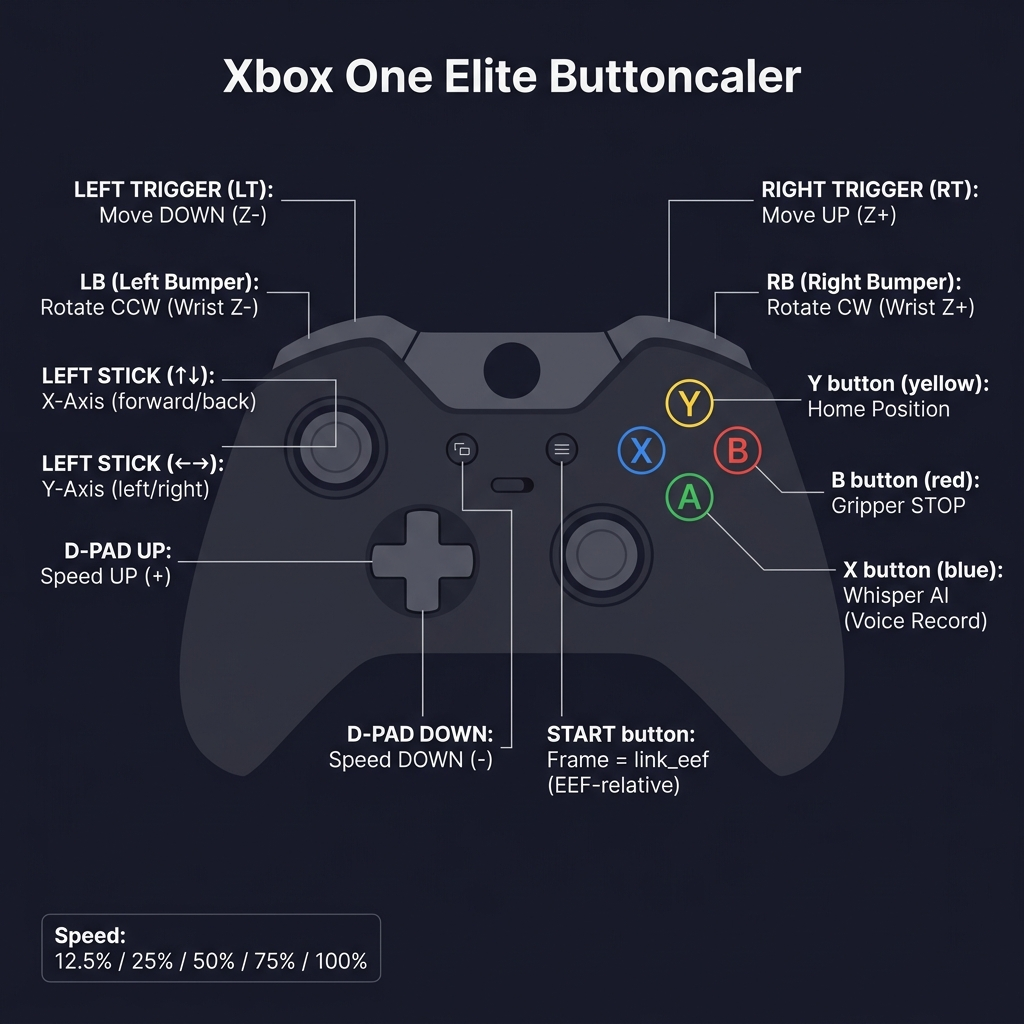
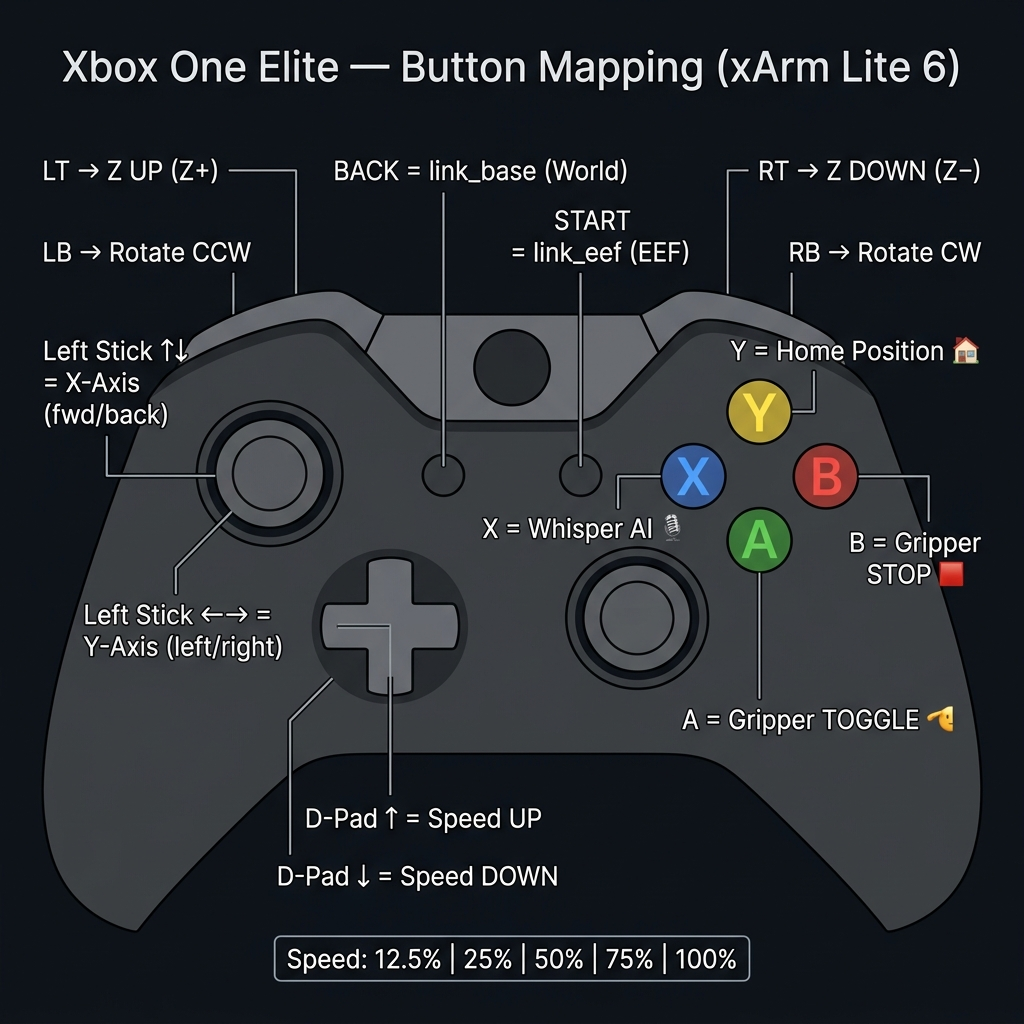
fix: correct gamepad button mapping (LT/RT Z-axis, remove image temporarily)
- LT = Z UP (Z+), RT = Z DOWN (Z-) [was inverted in docs]
  Formula: zAchse=(LT-RT)*-scale -> LT pressed=negative*-scale=positive Z
- Remove gamepad_layout.png from README sections (image WIP)
- Update gamepad_layout.png with corrected arrow labels (v3)

diff --git a/readme-de.md b/readme-de.md
@@ -388,16 +388,12 @@ Das Rumble-Signal wird aufgehoben, sobald der Arm wieder sicher ist.
 
 #### 7.3.1 Vollständige Controller-Belegung
 
-<p align="center">
-  <img src="_imgs/gamepad_layout.png" width="85%" alt="Xbox One Elite — Button-Belegung für xArm Lite 6">
-</p>
-
 | Eingabe | Funktion | ROS-Aktion | Technisches Detail |
 |---------|---------|-----------|-------------------|
 | **Left Stick ↑↓** | X-Achse (vor/zurück) | `TwistStamped.linear.x` | `axes[1] × speed_scale` |
 | **Left Stick ←→** | Y-Achse (links/rechts) | `TwistStamped.linear.y` | `axes[0] × speed_scale` |
-| **LT (Left Trigger)** | Z abwärts | `TwistStamped.linear.z` | `clamp(LT - RT, -1, 1) × -speed_scale` |
-| **RT (Right Trigger)** | Z aufwärts | `TwistStamped.linear.z` | `clamp(LT - RT, -1, 1) × -speed_scale` |
+| **LT (Left Trigger)** | Z **aufwärts** (Z+) | `TwistStamped.linear.z` | `clamp(LT−RT, -1,1) × −speed_scale` → LT gedrückt: negativer zAchse-Wert × −scale = **positive Z** |
+| **RT (Right Trigger)** | Z **abwärts** (Z−) | `TwistStamped.linear.z` | `clamp(LT−RT, -1,1) × −speed_scale` → RT gedrückt: positiver zAchse-Wert × −scale = **negative Z** |
 | **LB (Left Bumper)** | Handgelenk CCW (Z-) | `TwistStamped.angular.z` | `buttons[LB] - buttons[RB]` |
 | **RB (Right Bumper)** | Handgelenk CW (Z+) | `TwistStamped.angular.z` | `buttons[LB] - buttons[RB]` |
 | **D-Pad ↑** | Geschwindigkeit hoch | Pub → `/ui/robot_control/current_speed` | 5 Stufen durchschalten |

diff --git a/README.md b/README.md
@@ -394,16 +394,12 @@ This node receives the already-sanitized `/joy_check` signal and translates it i
 
 #### 7.3.1 Full Controller Button Mapping
 
-<p align="center">
-  <img src="_imgs/gamepad_layout.png" width="85%" alt="Xbox One Elite — Button Mapping for xArm Lite 6">
-</p>
-
 | Input | Function | ROS Action | Technical Detail |
 |-------|----------|-----------|-----------------|
 | **Left Stick ↑↓** | Move X-axis (forward/back) | `TwistStamped.linear.x` | `axes[1] × speed_scale` |
 | **Left Stick ←→** | Move Y-axis (left/right) | `TwistStamped.linear.y` | `axes[0] × speed_scale` |
-| **LT (Left Trigger)** | Move Z down | `TwistStamped.linear.z` | `clamp(LT - RT, -1, 1) × -speed_scale` |
-| **RT (Right Trigger)** | Move Z up | `TwistStamped.linear.z` | `clamp(LT - RT, -1, 1) × -speed_scale` |
+| **LT (Left Trigger)** | Move Z **up** (Z+) | `TwistStamped.linear.z` | `clamp(LT−RT, -1,1) × −speed_scale` → LT pressed: negative zAchse × −scale = **positive Z** |
+| **RT (Right Trigger)** | Move Z **down** (Z−) | `TwistStamped.linear.z` | `clamp(LT−RT, -1,1) × −speed_scale` → RT pressed: positive zAchse × −scale = **negative Z** |
 | **LB (Left Bumper)** | Rotate wrist CCW (Z-) | `TwistStamped.angular.z` | `buttons[LB] - buttons[RB]` |
 | **RB (Right Bumper)** | Rotate wrist CW (Z+) | `TwistStamped.angular.z` | `buttons[LB] - buttons[RB]` |
 | **D-Pad ↑** | Speed level UP | Publishes to `/ui/robot_control/current_speed` | Cycles through 5 speed levels |
